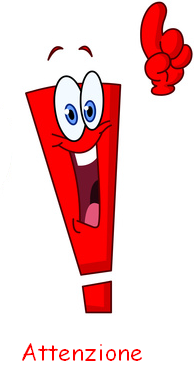
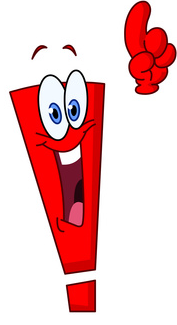
Testo Allergolo in Market.

Changed region(s): [[0.0565, 0.1231, 0.7345, 0.9846], [0.678, 0.0, 1.0, 0.3077]]

diff --git a/SOTI/Views/Market/AllergoloMarketView.xaml b/SOTI/Views/Market/AllergoloMarketView.xaml
@@ -44,6 +44,21 @@
                 <ColumnDefinition Width=".2*"/>
                 <ColumnDefinition Width=".5*"/>
             </Grid.ColumnDefinitions>
+
+            <Grid Grid.Column="1" Margin="30,80,0,80">
+                <Grid.RowDefinitions>
+                    <RowDefinition Height=".1*"/>
+                    <RowDefinition Height=".1*"/>
+                    <RowDefinition Height=".1*"/>
+                    <RowDefinition Height=".1*"/>
+                    <RowDefinition Height=".1*"/>
+                </Grid.RowDefinitions>
+                <TextBlock Grid.Row="0" TextAlignment="Center" FontSize="20" FontWeight="Black" Foreground="Red" TextWrapping="Wrap">ATTENZIONE!</TextBlock>
+                <TextBlock Grid.Row="1" TextAlignment="Center" FontSize="18" TextWrapping="Wrap" >Non puoi comprare</TextBlock>
+                <TextBlock Grid.Row="2" TextAlignment="Center" FontSize="18" FontWeight="Bold" x:Name="Product" TextWrapping="Wrap"></TextBlock>
+                <TextBlock Grid.Row="3" TextAlignment="Center" FontSize="18" TextWrapping="Wrap">Ricordati che Muscolo è allergico a:</TextBlock>
+                <TextBlock Grid.Row="4" TextAlignment="Center" FontSize="18" FontWeight="Bold" TextWrapping="Wrap" x:Name="Allergie"></TextBlock>
+            </Grid>
             <Image Source="pack://application:,,,/SOTI;component/Media/Images/Supermarket/Attenzione.jpg" Grid.Row="1"></Image>
         </Grid>
 

diff --git a/SOTI/Views/Market/AllergoloMarketView.xaml.cs b/SOTI/Views/Market/AllergoloMarketView.xaml.cs
@@ -1,4 +1,6 @@
-using System;
+using Caliburn.Micro;
+using SOTI.Message;
+using System;
 using System.Collections.Generic;
 using System.Linq;
 using System.Text;
@@ -18,13 +20,16 @@ namespace SOTI.Views.Market
     /// <summary>
     /// Logica di interazione per AllergoloMarketView.xaml
     /// </summary>
-    public partial class AllergoloMarketView : UserControl
+    public partial class AllergoloMarketView : UserControl, IHandle<WrongProductMessage>
     {
+        private readonly IEventAggregator eventAggregator;
         private string videoUri = VideoUri.Video + VideoUri.Allergolo;
 
         public AllergoloMarketView()
         {
             InitializeComponent();
+            this.eventAggregator = AppBootstrapper.container.GetInstance<IEventAggregator>();
+            eventAggregator.Subscribe(this);
 
             //Load Video
             this.CenterMedia.Source = new Uri(videoUri + VideoUri.Appear_Market, UriKind.Relative);
@@ -37,6 +42,8 @@ namespace SOTI.Views.Market
             //Play
             CenterMedia.Play();
             CenterBackMedia.Play();
+
+            this.eventAggregator.PublishOnUIThread(new GUIReadyMessage());
         }
 
         private void CenterMedia_AppearEnded(object sender, RoutedEventArgs e)
@@ -45,6 +52,12 @@ namespace SOTI.Views.Market
             CenterMedia.MediaEnded -= CenterMedia_AppearEnded;
             CenterMedia.MediaEnded += CenterMedia_MediaEnded;
             CenterMedia.Play();
+        }
+
+        public void Handle(WrongProductMessage message)
+        {
+            Product.Text = message.product.nome.ToUpper() + ".";
+            Allergie.Text = message.allergia_1.nome.ToUpper() + " e " + message.allergia_2.nome.ToUpper() + ".";
         }
 
         private void CenterMedia_MediaEnded(object sender, RoutedEventArgs e)
@@ -58,5 +71,7 @@ namespace SOTI.Views.Market
             CenterBackMedia.Position = TimeSpan.Zero;
             CenterBackMedia.Play();
         }
+
+        
     }
 }

diff --git a/SOTI/Views/Market/PaymentView.xaml.cs b/SOTI/Views/Market/PaymentView.xaml.cs
@@ -22,7 +22,7 @@ namespace SOTI.Views.Market
     /// </summary>
     public partial class PaymentView : UserControl, IHandle<ScontrinoMessage>
     {
-        private IEventAggregator eventAggregator;
+        private readonly IEventAggregator eventAggregator;
         private string videoUri = VideoUri.Video + VideoUri.Muscolo;
 
         public PaymentView()
